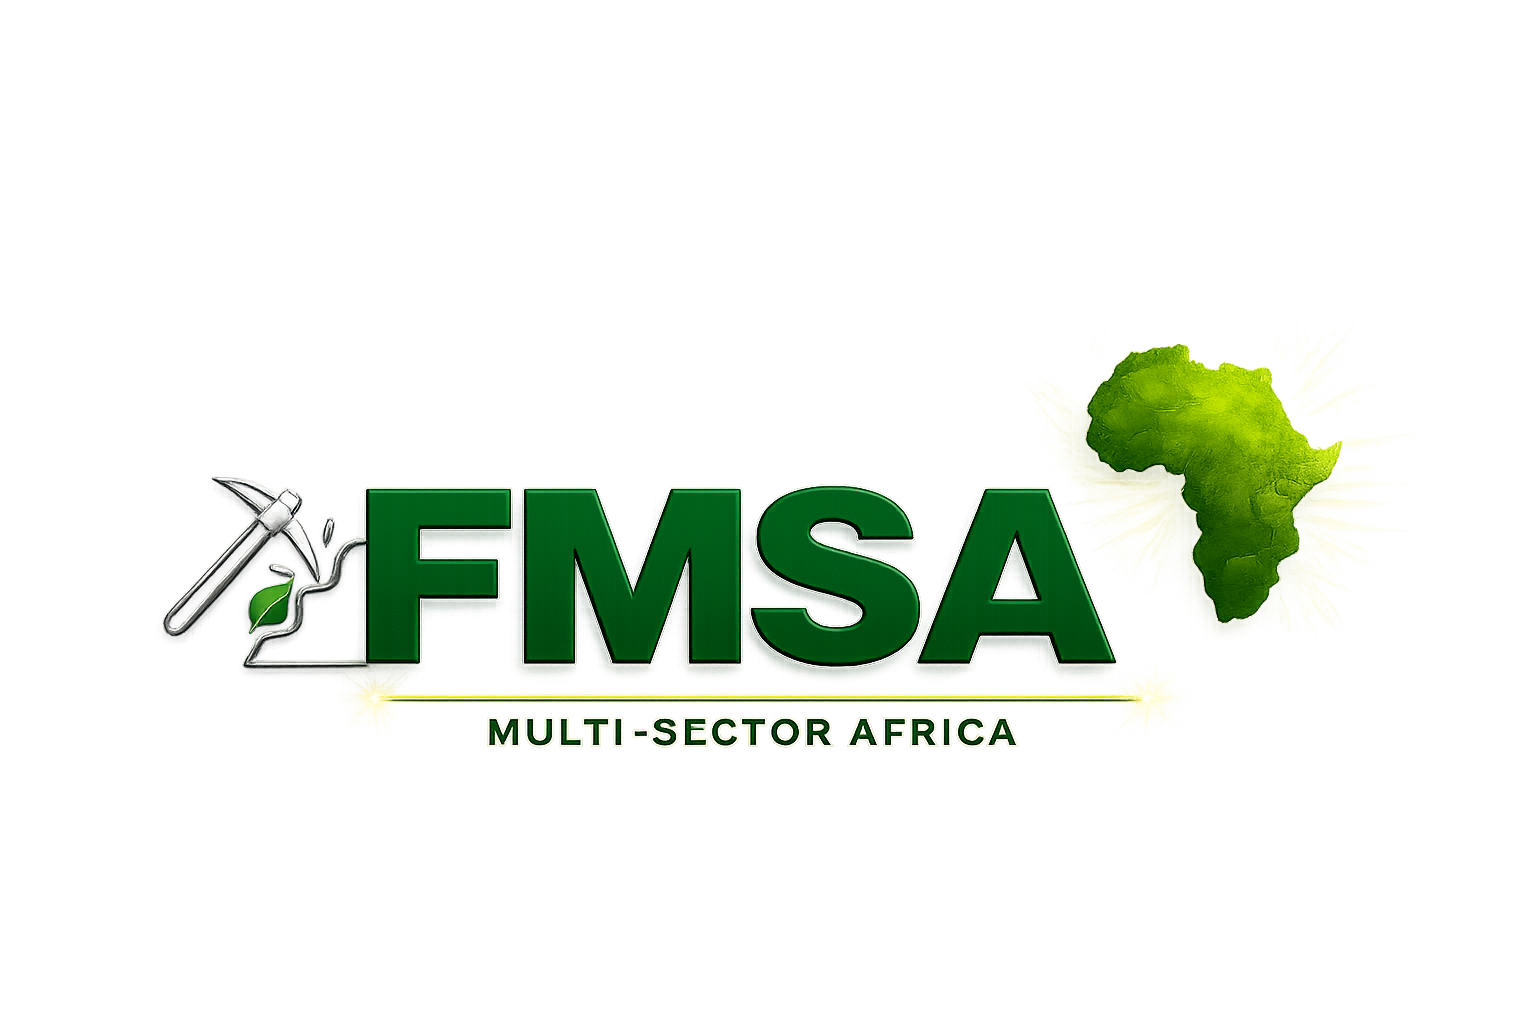
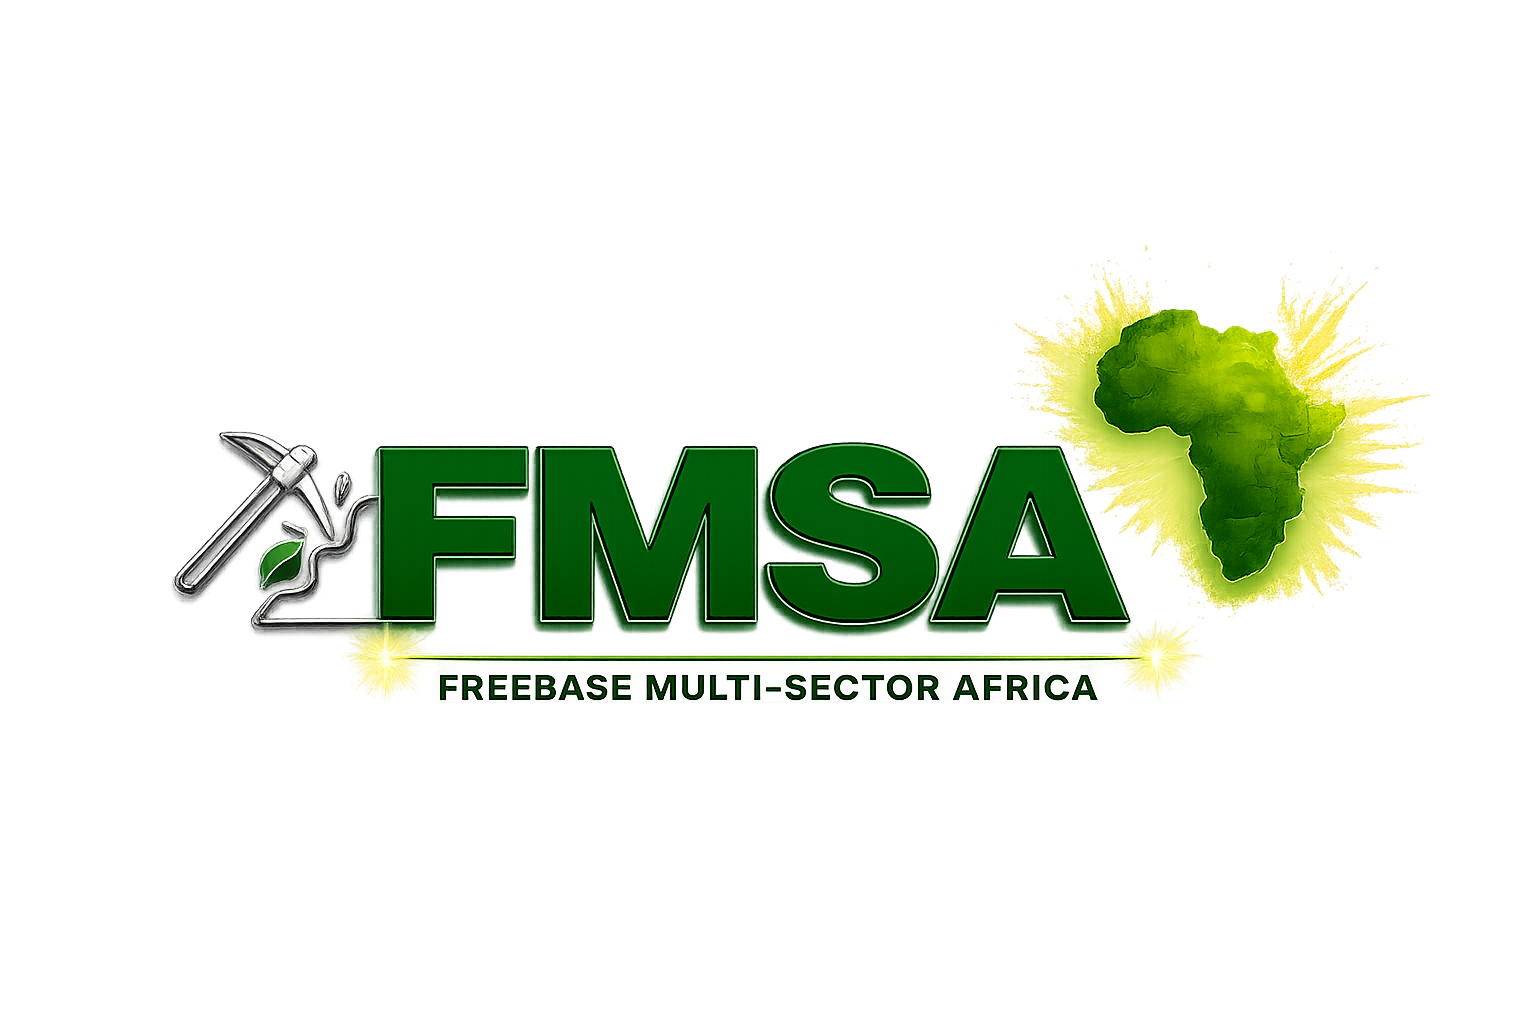
Fix mobile responsive layout

Changed region(s): [[0.0938, 0.2812, 0.9062, 0.75]]

diff --git a/style.css b/style.css
@@ -1843,3 +1843,65 @@ footer p {
     grid-column:1 / -1;
   }
 }
+
+/* ===== MOBILE ONLY FIXES ===== */
+@media (max-width: 768px) {
+
+  .about-preview {
+    grid-template-columns: 1fr !important;
+    gap: 25px !important;
+    padding: 70px 8% !important;
+    text-align: left !important;
+  }
+
+  .about-preview h2 {
+    font-size: 38px !important;
+    line-height: 1.15 !important;
+  }
+
+  .about-preview p {
+    font-size: 16px !important;
+    line-height: 1.7 !important;
+  }
+
+  .hero-visual {
+    grid-template-columns: 1fr !important;
+  }
+
+  .hero-visual .img-shape {
+    height: 260px !important;
+    width: 100% !important;
+  }
+
+  .quality-badge {
+    width: 100% !important;
+    height: auto !important;
+    padding: 22px !important;
+    border-radius: 26px !important;
+  }
+
+  .contact-form-box {
+    padding: 35px 24px !important;
+    border-radius: 28px !important;
+  }
+
+  .contact-form-box h2 {
+    font-size: 42px !important;
+    line-height: 1.15 !important;
+  }
+
+  .form-grid {
+    grid-template-columns: 1fr !important;
+  }
+
+  .input-group input,
+  .input-group textarea {
+    font-size: 16px !important;
+    padding: 18px 18px 18px 55px !important;
+  }
+
+  .send-btn {
+    width: 100% !important;
+    justify-content: center !important;
+  }
+}